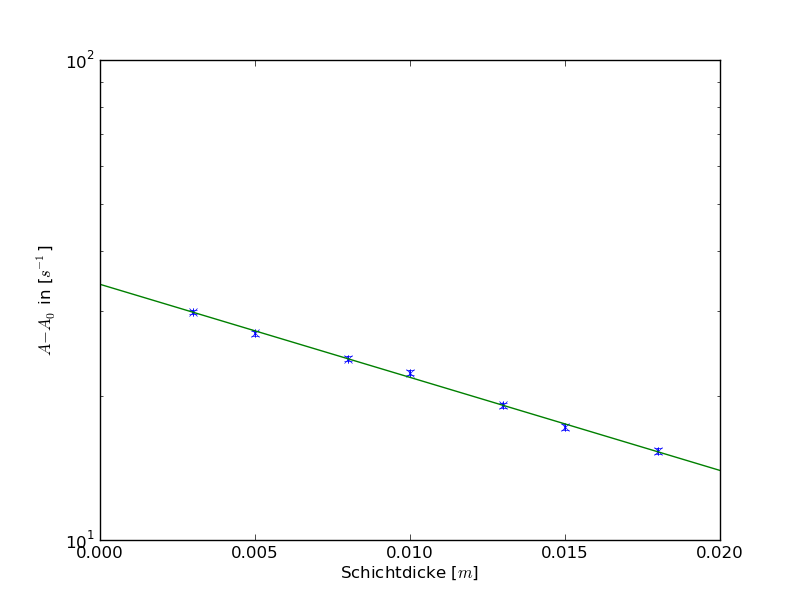
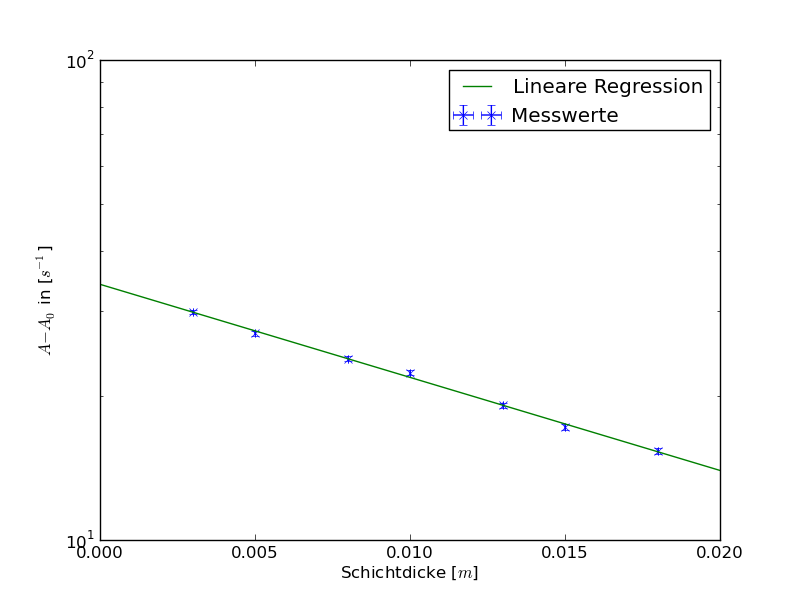
fertig

Changed region(s): [[0.5625, 0.09, 0.9062, 0.24]]

diff --git a/protokoll704.tex b/protokoll704.tex
@@ -8,10 +8,11 @@
 \usepackage{amssymb}
 \usepackage{inputenc}
 \usepackage{rotating} 
+\usepackage{here}
 \usepackage{graphicx}
 \usepackage{paralist}
 \usepackage{selinput}
-\usepackage{siunitx}
+\usepackage[separate-uncertainty=true]{siunitx}
 \usepackage{booktabs}
 \sisetup{}
 \SelectInputMappings{%
@@ -39,7 +40,7 @@ germandbls={ß},
 \section{Einleitung}
 In diesem Versuch wird die Wechselwirkung energiereicher Strahlung mit Materie untersucht. Es wird $\gamma$-Strahlung als Beispiel für Photonenstrahlung und $\beta$-Strahlung als Beispiel für Teilchenstrahlung betrachtet.
 \section{Theorie}
-Während es bei der $\gamma$-Strahlung gelingt, ein allgemeingültiges exponentielles Absorptionsgesetz aufzustellen, ist die Wechselwirkung von $\beta$-Strahlung mit Materie zu vielfältig für eine einfache Gesetzmäßigkeit. Im Gegensatz zur $\gamma$-Strahlung treten bei den schnellen Elektronen meisst eine Vielzahl von Wechselwirkungen auf, bis die gesamte kinetische Energie der Teilchen umgewandelt wurde. Ein allgemeingültiges Absorptionsgesetz für die $\gamma$-Strahlung zu formulieren ist für den Umfang dieses Versuches zu kompliziert. Stattdessen soll hier die sogenannte Reichweite mit einem einfachen Messverfahren untersucht werden.
+Während es bei der $\gamma$-Strahlung gelingt, ein allgemeingültiges exponentielles Absorptionsgesetz aufzustellen, ist die Wechselwirkung von $\beta$-Strahlung mit Materie zu vielfältig für eine einfache Gesetzmäßigkeit. Im Gegensatz zur $\gamma$-Strahlung treten bei den schnellen Elektronen meist eine Vielzahl von Wechselwirkungen auf, bis die gesamte kinetische Energie der Teilchen umgewandelt wurde. Ein allgemeingültiges Absorptionsgesetz für die $\gamma$-Strahlung zu formulieren ist für den Umfang dieses Versuches zu kompliziert. Stattdessen soll hier die sogenannte Reichweite mit einem einfachen Messverfahren untersucht werden.
 \subsection{$\gamma$-Strahlung}
 \subsubsection{Wirkungsquerschnitt und Absorptionsgesetz}
 Für die Betrachtung der $\gamma$-Strahlung muss zunächst der sogenannte Wirkungsquerschnitt definiert werden. \newline
@@ -77,7 +78,7 @@ Bei der Wechselwirkung eines $\gamma$-Quants mit Materie können viele Wechselwi
 \paragraph{Der Photoeffekt}
 Wenn ein $\gamma$-Quant in Wechselwirkung mit einem Elektron eines Atoms tritt, wird der $\gamma$-Quant vernichtet und das Elektron aus seiner Bindung an den Kern entfernt. Dabei hat das Elektron die kinetische Energie $E_B$. $E_B$ ist die Teilenergie des $\gamma$-Quants, die nicht für das Lösen des Elektrons umgewandelt wurde. Daher tritt der Photoeffekt nicht bei $\gamma$-Quanten mit einer Energie, die kleiner als die Auslöseenergie ist, auf. Bei Anwendung des Impuls-Satzes stellt man fest, dass das Atom einen Teil des Quantenimpulses aufnehmen muss. Daraus folgt, dass die Absorption des Quanten in der innersten Schale und bei schweren Atomen am häufigsten sind. Die durch den Photoeffekt entstehenden Lücken in den Schalen werden durch den Übergang von Elektronen höherer Schalen aufgefüllt, dabei wird ein Röntgenquant oder ein Auger-Elektron emittiert.
 \paragraph{Der Compton-Effekt}
-Beim Compton-Effekt wird der $\gamma$-Quant an einem freien Elektron gestreut. Dieser Effekt verursacht eine Energie- und Richtungsänderung des gestreuten $\gamma$-Quantens. Aus dem Energie- und dem Impulssatz folgt zwar, dass der Quant nie seine ganze Energie abgeben kann, trotzdem nimmt die Intensität des $\gamma$-Strahls ab, da der Quant gestreut wird.
+Beim Compton-Effekt wird der $\gamma$-Quant an einem freien Elektron gestreut. Dieser Effekt verursacht eine Energie- und Richtungsänderung des gestreuten $\gamma$-Quants. Aus dem Energie- und dem Impulssatz folgt zwar, dass der Quant nie seine ganze Energie abgeben kann, trotzdem nimmt die Intensität des $\gamma$-Strahls ab, da der Quant gestreut wird.
 \begin{equation}
 \sigma_{com} = 2\pi r_e^2\left(\frac{1+\epsilon}{\epsilon^2} \left( \frac{2(1+\epsilon)}{1+2\epsilon}-\frac{1}{\epsilon}ln(1+2\epsilon) \right) + \frac{1}{2\epsilon}ln(1+2\epsilon) - \frac{1+3\epsilon}{(1+2\epsilon)^2} \right)
 \label{6}
@@ -91,16 +92,30 @@ Formel (\ref{6}) zeigt den Wirkungsquerschnitt $\sigma_{com}$ für die Comptonst
 Die sogenannte Paarbildung kann auftreten, wenn die $\gamma$-Energie größer ist als die doppelte Ruhemasse des Elektrons ist.
 Der Impulssatz zeigt, dass zusätzlich ein Teil des Quantenimpulses von einem weiteren Stoßpartner übernommen werden muss. Meistens übernehmen die Atomkerne des Absorbermaterials diesen Restimpuls. $\sigma_p \sim z^2$ lässt sich mit Hilfe der Quantenmechanik zeigen.
 \newline\newline
-Die Gewichtung der drei hauptsächlich aufgetretenen Effekte ist abhängig von der Quantenenergie. Abbildung \ref{a1} zeigt die Extinktionskoeffizienten am Beispiel des Absorbers Germanium. So ist bei den niedrigen Energien der Fotoeffekt dominierend, schon bei mittleren Energien kann er hingegen vernachlässigt werden. Der Compton-Effekt ist bei geringen Energien zwar vorhanden, spielt aber erst bei mittleren Energien eine Rolle. Die Paarbildung setzt erst bei 1 MeV ein, ist aber zunächst vernachlässigbar. Bei 100 MeV findet fast nur noch die Paarbildung statt.
+Die Gewichtung der drei hauptsächlich aufgetretenen Effekte ist abhängig von der Quantenenergie. Abbildung \ref{a1} zeigt die Extinktionskoeffizienten am Beispiel des Absorbers Germanium. 
+\begin{figure}[h!]
+\centering
+\includegraphics[scale=0.7]{/home/martin/Dokumente/SS14/Praktikum/V704/theorie.png}
+\caption{Energieabhängigkeit des Absorptionskoeffizienten $\mu$ für Germanium getrennt nach den verschiedenen Wechselwirkungsmechanismen sowie Totaleffekt [1]}
+\label{a1}
+\end{figure}
+So ist bei den niedrigen Energien der Fotoeffekt dominierend, schon bei mittleren Energien kann er hingegen vernachlässigt werden. Der Compton-Effekt ist bei geringen Energien zwar vorhanden, spielt aber erst bei mittleren Energien eine Rolle. Die Paarbildung setzt erst bei \SI{1}{MeV} ein, ist aber zunächst vernachlässigbar. Bei \SI{100}{MeV}findet fast nur noch die Paarbildung statt.
 \subsection{$\beta$-Strahlung}
 \subsubsection{Entstehung und Eigenschaften der $\beta$-Strahlung}
 $\beta$-Strahlung besteht aus positiven oder negativen Elektronen mit hoher kinetischer Energie. Diese Elektronen werden von Atomkernen mit einer instabilen Anzahl von Protonen oder Neutronen emittiert. Zusätzlich zu dem Elektron wird ein Antineutrino $\overline{\nu}_e$ bzw. das Neutrino $\nu_e$ emittiert. Da die Energie, die bei der Kernumwandlung frei wird, statistisch auf das Elektron, das Neutrino und auf den Rückstoßkern verteilt wird, ist das Spektrum eines $\beta$-Strahlers kontinuierlich. Die bei der Kernwandlung freigewordene Energie entspricht dabei der Maximalenergie $E_{max}$ des Elektrons. Durch das emittierte (Anti-)Neutrino wird die Einhaltung aller Erhaltungssätze gewährleistet.
 \subsubsection{Wechselwirkung von $\beta$-Strahlung mit Materie}
 Aufgrund ihrer Ladung und ihrer im Vergleich zu anderen Teilchen geringen Masse ist ein $\beta$-Teilchen für sehr viele Wechselwirkungen verantwortlich. Es treten vor allem drei Prozesse auf, die im Folgenden näher erläutert werden.
 \paragraph{Elastische Streuung am Atomkern}
-Bei dieser sogenannten Rutherford-Streuung werden die $\beta$-Teilchen im Coulombfeld der Atomkerne zum Teil mit großem Winkel abgelenkt. Durch diese Auffächerung der Teilchen wird die Intensität verringert. Darüber werden die Bahnlängen durch die Absorberschicht erheblich größer als die Reichweite der Elektronen. Dieser Effekt ist in Abbildung \ref{a2} dargestellt. Da die elastische Streuung unter relativistischen Geschwindigkeiten stattfindet, müssen die Rutherfordschen Streuformeln mehrfach korrigiert werden. Darauf soll hier aber nicht weiter eingegangen werden.
+Bei dieser sogenannten Rutherford-Streuung werden die $\beta$-Teilchen im Coulombfeld der Atomkerne zum Teil mit großem Winkel abgelenkt. Durch diese Auffächerung der Teilchen wird die Intensität verringert. Darüber werden die Bahnlängen durch die Absorberschicht erheblich größer als die Reichweite der Elektronen. Dieser Effekt ist in Abbildung \ref{a2} dargestellt. 
+\begin{figure}[h]
+\centering
+\includegraphics[scale=0.6]{abb2.png}
+\caption{Veranschaulichung des Unterschiedes zwischen Bahnlänge und Reichweite individueller $\beta$-Teilchen in einer Materieschicht[1]}
+\label{a2}
+\end{figure}
+Da die elastische Streuung unter relativistischen Geschwindigkeiten stattfindet, müssen die Rutherfordschen Streuformeln mehrfach korrigiert werden. Darauf soll hier aber nicht weiter eingegangen werden.
 \paragraph{Inelastische Streuung am Atomkern}
-Bei der Inelastischen Streuung wird Energie in Form von Bremsstrahlung abgegeben, da die Elektronen im Coulombfeld eines Kernes beschleunigt werden. Die Wahrscheinlichkeit dieses Prozesses wird bestimmt durch den Wirkungsquerschnitt $\sigma{Br}$. Bezogen auf den Atomkern ergibt sich
+Bei der inelastischen Streuung wird Energie in Form von Bremsstrahlung abgegeben, da die Elektronen im Coulombfeld eines Kerns beschleunigt werden. Die Wahrscheinlichkeit dieses Prozesses wird bestimmt durch den Wirkungsquerschnitt $\sigma{Br}$. Bezogen auf den Atomkern ergibt sich
 \begin{equation}
 \sigma_{Br} = \alpha r_e^2 z^2.
 \label{8}
@@ -114,21 +129,45 @@ Allerdings ist diese Formel nur für Energien bis ca. 2500 keV gültig. Insgesam
 \paragraph{Inelastische Streuung an Elektronen des Absorbermaterials}
 Bei der Absorption von $\beta$-Strahlung müssen Energieverluste bis zur Energie Null erklärt werden. Die daher notwendige dritte Art der Wechselwirkung ist die Inelastische Streuung an Elektronen. Durch diese Streuung werden die Kerne ionisiert und angeregt. Durch die nur geringe Umwandlung von Energie kann ein Elektron viele dieser Wechselwirkungen durchlaufen. Die Wahrscheinlichkeit dieser inelastischen Streuung ist proportional zur Anzahl der Elektronen pro Volumeneinheit. Bei Aluminium und einer Elektronenenergie von 100 keV werden $\beta$-Teilchen schon bei einer Schichtdicke des Aluminiums von ca. 0.15 mm vollständig abgebremst.
 \subsubsection{Die Absorptionskurve von $\beta$-Strahlung}
-Aufgrund der Komplexität der Absorptionsvorgänge bei $\beta$-Strahlung ist die Aufstellung des Zusammenhangs zwischen der Intensität der Strahlung und der Dicke des Absorbers ein hier nicht lösbares Problem. Allerdings zeigt sich, dass für kleine Schichtdicken und natürliche Strahler mit guter Näherung das Apsorptionsgesetz in Formel (\ref{3}) gilt. Ist die Schichtdicke allerdings zu nahe an der maximalen Reichweiter der Elektronen, kann dieses Gesetz nicht angewendet werden. Abbildung \ref{a3} zeigt eine typische Absorptionskurve. Die mit "Untergrund" bezeichnete Strahlenintensität setzt sich aus der Hintergrundstrahlung und der emitierten Bremsstrahlung der Elektronen zusammen. Um an der Absorptionskurve die maximale Reichweite der Elektronen zu bestimmen, verlängert man die beiden geraden Stücke des Graphen und liest die Reichweite im Schnittpunkt ab. Aus dieser Reichweite $R_{max}$ kann man die kernphysikalisch interessante Größe $E_{max}$ ermitteln. Aufgrund der so komplizierten Wechselwirkung ist der Zusammenhang aber nur empirisch. In unserem Experiment gilt
+Aufgrund der Komplexität der Absorptionsvorgänge bei $\beta$-Strahlung ist die Aufstellung des Zusammenhangs zwischen der Intensität der Strahlung und der Dicke des Absorbers ein hier nicht lösbares Problem. Allerdings zeigt sich, dass für kleine Schichtdicken und natürliche Strahler mit guter Näherung das Apsorptionsgesetz in Formel (\ref{3}) gilt. Ist die Schichtdicke allerdings zu nahe an der maximalen Reichweiter der Elektronen, kann dieses Gesetz nicht angewendet werden. Abbildung \ref{a3} zeigt eine typische Absorptionskurve.
+\begin{figure}[h]
+\centering
+\includegraphics[scale=0.9]{abb3.png}
+\caption{Absorptionskurve für einen natürlichen $\beta$-Strahler}
+\label{a3}
+\end{figure}
+ Die mit "Untergrund" bezeichnete Strahlenintensität setzt sich aus der Hintergrundstrahlung und der emittierten Bremsstrahlung der Elektronen zusammen. Um an der Absorptionskurve die maximale Reichweite der Elektronen zu bestimmen, verlängert man die beiden geraden Stücke des Graphen und liest die Reichweite im Schnittpunkt ab. Aus dieser Reichweite $R_{max}$ kann man die kernphysikalisch interessante Größe $E_{max}$ ermitteln. Aufgrund der so komplizierten Wechselwirkung ist der Zusammenhang aber nur empirisch. In unserem Experiment gilt
 \begin{equation}
 E_{max} = 1.92\sqrt{R_{max}^2 + 0.22 R_{max}}\, [MeV].
 \label{10}
 \end{equation}
 \section{Vorbereitung und Durchführung}
 \subsection{Aufbau}
-Der grundlegende Versuchsaufbau ist der Abbildung \ref{a4} zu entnehmen. Ein Geiger-Müller-Zählrohr ist verstärkt an einem Zählwerk angeschlossen, die Messzeit ist einstellbar. Zwischen der strahlenden Probe und dem Zählrohr können Absorptionskörper in verschiedenen Stärken befestigt werden. Die Versuchsumgebung ist mit einer Bleiwand abgeschirmt.
+Der grundlegende Versuchsaufbau ist der Abbildung \ref{a4} zu entnehmen. 
+\begin{figure}[htp]
+\centering
+\includegraphics[scale=0.7]{abb4.png}
+\caption{Schematische Darstellung der Messapparatur für die $\gamma$-Absorption[1]}
+\label{a4}
+\end{figure}
+Ein Geiger-Müller-Zählrohr ist verstärkt an einem Zählwerk angeschlossen, die Messzeit ist einstellbar. Zwischen der strahlenden Probe und dem Zählrohr können Absorptionskörper in verschiedenen Stärken befestigt werden. Die Versuchsumgebung ist mit einer Bleiwand abgeschirmt.
 \subsection{Durchführung}
 Bevor die Probe eingesetzt wird, wird zunächst die Hintergrundstrahlung gemessen. Um eine hohe Genauigkeit zu erreichen, wird der Nulleffekt 900 Sekunden lang gemessen. In der folgenden Messung mit der Probe wird die Schichtdicke des Absorbers Schritt für Schritt erhöht, bei der Messung der $\beta$-Strahlung so lange, bis die Zählrate in der statistischen Schwankung konstant bleibt.\newline
 Um eine geringere Strahlenbelastung zu erreichen, misst jede Praktikumsgruppe nur eine Strahlenart. Hier wird die $\beta$-Strahlung gemessen. Die Messwerte zur $\gamma$-Strahlung werden von unserer Partnergruppe bereitgestellt.
 \section{Auswertung}
 \subsection{Bestimmung der Messungenauigkeiten der Zählraten}
+Da es sich beim radioaktiven Zerfall um einen statistischen Prozess handelt, soll hier die Berechnung der Messunsicherheiten noch einmal behandelt. Der Zerfall der Kerne lässt sich durch eine Poisson-Verteilung beschreiben. Daher beträgt der statistische Fehler der gemessenen Werte
+\begin{equation}
+\Delta N = \sqrt{N}.
+\end{equation} 
+Weil sich die Messapparatur nicht komplett abschirmen lässt, ist der sogenannte Nulleffekt zu berücksichtigen. Das ist die Anzahl der durch Hintergrundstrahlung ausgelösten Zählungen im Geiger-Müller-Zählrohr. Damit ergibt sich für den Fehler der Nettoaktivität $A-A_0$:
+\begin{equation}
+\Delta A = \sqrt{\left(\frac1{\Delta t}\right)^2 \cdot |N| +\left(\frac1{\Delta t_0}\right)^2 \cdot |N_0| }
+\end{equation} 
+Diese Größe wird im Folgenden in den Tabellen und in den Diagrammen (mittels Fehlerbalken) als Messunsicherheit der angegeben Aktivitäten angegeben. 
+\paragraph{Anmerkung} Die Berechnung dieser Fehler, sowie die Erstellung der Diagramme und die lineare Ausgleichsrechnung wurden mit \textsc{Python} durcheführt.  
 \subsection{Bestimmung des Absorptionskoeffizienten $\mu$ von $\gamma$-Strahlung}
-Die Absorptionkurven wurden jeweils für eine Schicht aus Kupfer und einer Schicht aus Blei aufgenommen. Die Tabellen \ref{tab_gamma1}  und \ref{tabn_gamma_2} enthalten die über einen Zeitraum von 
+Die Absorptionskurven wurden jeweils für eine Schicht aus Kupfer und einer Schicht aus Blei aufgenommen. Die Tabellen \ref{tab_gamma1}  und \ref{tabn_gamma_2} enthalten die über einen Zeitraum von 
 \[
 \Delta t_{Cu} = \SI{300}{\second}
 \]
@@ -140,20 +179,48 @@ für das Blei-Target gemessenen Werte und die entsprechenden Zählraten
 \[
 A = \frac{N}{\Delta t} - A_0.
 \]
-In den Abbildungen \ref{abb_gamma1_lin} und \ref{abb_gamma2_lin} sind die Absorptionskurven für die jeweiligen Metalle linear aufgetragen. Zur Berechnung der Absoprtionskoeffizienten wurden diese Werte auch halblogarithmisch aufgetragen (Abbildungen \ref{abb_gamma1_log} und \ref{abb_gamma2_log}) und eine lineare Ausgleichsrechung 
+In den Abbildungen \ref{abb_gamma1_lin} und \ref{abb_gamma2_lin} sind die Absorptionskurven für die jeweiligen Metalle linear aufgetragen. 
+\begin{figure}[H]
+\centering
+\includegraphics[scale=0.6]{/home/martin/Dokumente/SS14/Praktikum/V704/gamma1_lin.png}
+\caption{Linearer Plot der gemessenen Aktivität in Abhängigkeit von der Schichtdicke $d$ für das Cu-Target}
+\label{abb_gamma1_lin}
+\end{figure}
+\begin{figure}[H]
+\centering
+\includegraphics[scale=0.6]{/home/martin/Dokumente/SS14/Praktikum/V704/gamma2_lin.png}
+\caption{Linearer Plot der gemessenen Aktivität in Abhängigkeit von der Schichtdicke $d$ für das Pb-Target}
+\label{abb_gamma2_lin}
+\end{figure}
+
+\begin{figure}[H]
+\centering
+\includegraphics[scale=0.6]{/home/martin/Dokumente/SS14/Praktikum/V704/gamma1_log.png}
+\caption{Halblogarithmischer Plot der gemessenen Aktivität in Abhängigkeit von der Schichtdicke $d$ für das Cu-Target}
+\label{abb_gamma1_log}
+\end{figure}
+\begin{figure}[H]
+\centering
+\includegraphics[scale=0.6]{/home/martin/Dokumente/SS14/Praktikum/V704/gamma2_log.png}
+\caption{Halb-logarithmischer Plot der gemessenen Aktivität in Abhängigkeit von der Schichtdicke $d$ für das Pb-Target}
+\label{abb_gamma2_log}
+\end{figure}
+\noindent
+Zur Berechnung der Absorptionskoeffizienten wurden diese Werte auch halb-logarithmisch aufgetragen (Abbildungen \ref{abb_gamma1_log}  und \ref{abb_gamma2_log}) und eine lineare Ausgleichsrechnung 
 \[
 \ln{A} = \mu \cdot d + \ln{A(0)}
 \]
 durchgeführt. Die folgenden Werte wurden bestimmt:
 \begin{table}[h]
 \centering
-\begin{tabular}{rcc}
+\begin{tabular}{lll}
 
 \toprule
-	Material & $\frac{\mu}{\si{\meter^{-1}}}$ & $\ln{A(0)}$\\
- \midrule
-	Cu & 22 & 23\\
-	Pb & 32 & 33\\
+	Material & $\frac{\mu}{\si{\meter^{-1}}} $& $\ln{A(0)}$ \\
+ \midrule 
+ 	Cu & \num{44.6+-0.9} & \num{3.529+-0.011}\\
+	Pb & \num{-05.3+-1.3}  & \num{2.430+-0.027}\\
+
 \bottomrule
 \end{tabular}
 \end{table}
@@ -161,20 +228,20 @@ durchgeführt. Die folgenden Werte wurden bestimmt:
 \noindent
 Hieraus lässt sich durch Anwendung der Exponentialfunktion die Zählrate des Strahlers ohne Abschirmung $A(0)$ berechnen:
 \begin{itemize}
-\item $A_{Cu}(0)$ = \SI{}{\becquerel}
-\item $A_{Pb}(0)$ = \SI{}{\becquerel}.
+\item $A_{Cu}(0)$ = \SI{34.1+-0.4}{\becquerel}
+\item $A_{Pb}(0)$ = \SI{11.4+-0.3 }{\becquerel}.
 
 \end{itemize}
 \paragraph{Theoretische Berechnung von $\mu$}
-Zur Berechnung des Wirkungsqueschnitts $\sigma_{com}$ muss zunächst das Verhältnis von Quantenenergie zur Ruheenergie des Elektrons berechnet werden. Der Vewendete Strahler hat eine Quatenenergie von $E_\gamma = \SI{633}{\kilo\eV}$[Quelle]. Somit ergibt sich für 
+Zur Berechnung des Wirkungsquerschnitts $\sigma_{com}$ muss zunächst das Verhältnis von Quantenenergie zur Ruheenergie des Elektrons berechnet werden. Der Verwendete Strahler ${}^{137}$Cs  hat eine Quantenenergie von $E_\gamma = \SI{0.662}{\kilo\eV}$[2]. Somit ergibt sich für 
 \[
-\epsilon =  \frac{E_\gamma}{m_ec^2} = \num{1.305}.
+\epsilon =  \frac{E_\gamma}{m_ec^2} = \num{1.3}.
 \]
 Aus Formel \ref{6} berechnet $\sigma_{com}$ zu
 \[
 \sigma_{com} = \SI{2.76e-29}{\meter\squared}
 \]
-Aus diesem Wert kann aus Formel (\ref{7}). Dazu werden noch die Molare Masse $M$ sowie die Dichte $\rho$ des verwendeten Targets. Die folgende Tabelle zeigt die errechneten Werte:
+Aus diesem Wert kann aus Formel (\ref{7}). Dazu werden noch die Molare Masse $M$ sowie die Dichte $\rho$ des verwendeten Targets. Die folgende Tabelle zeigt die berechneten Werte:
 \begin{table}[h]
 \centering
 \begin{tabular}{lllll}
@@ -182,7 +249,7 @@ Aus diesem Wert kann aus Formel (\ref{7}). Dazu werden noch die Molare Masse $M$
 	Material & $Z$ & $\frac{M}{\si{\gram\per\mole}}$ &$\frac{\rho}{\si{\kilo\gram\per\meter\squared}}$ &$\frac{\mu}{\si{\meter^{-1}}}$ \\
 \midrule
 	Cu & 29 &63.546  &8.83 & 0.068\\
-	Pb &82 & 207.2& 11.342 &     \\
+	Pb &82 & 207.2& 11.342 & 0.075    \\
 \bottomrule
 \end{tabular}
 
@@ -192,11 +259,11 @@ Zur Bestimmung der Absorptionskurve von $\beta$-Strahlung wurde über einen Zeit
 \[
 \Delta t = \SI{60}{\second}
 \]
-gemessen. Die Ergebnisse, sowie die dauraus berechnete Zählrate
+gemessen. Die Ergebnisse, sowie die daraus berechnete Zählrate
 \[
 A = \frac{N}{\Delta t}
 \]
-befinden sich in Tabelle \ref{tab_beta}. In Abbildung \ref{abb_beta} werden diese Daten halblograrithmisch aufgetragen. Es zeigt sich der zu erwartende Kurvenverlauf. 
+befinden sich in Tabelle \ref{tab_beta}. In Abbildung \ref{abb_beta} werden diese Daten halb-logarithmisch aufgetragen. Es zeigt sich der zu erwartende Kurvenverlauf. 
 \begin{figure}[htp]
 \centering
 \includegraphics[scale=0.85]{/home/martin/Dokumente/SS14/Praktikum/V704/beta_log.png}
@@ -204,11 +271,11 @@ befinden sich in Tabelle \ref{tab_beta}. In Abbildung \ref{abb_beta} werden dies
 \label{abb_beta}
 \end{figure}
 \newpage
-Eine lineare Augleichsrechnung
+Eine lineare Ausgleichsrechnung
 \[
-y=m x +b
+\ln{A} = m\cdot d + b
 \]
-wird jeweils für die ersten X Messpunkte sowie für die restlichen Daten ausgeführt. Daraus ergeben sich folgende Werte:
+wird jeweils für die ersten 13 Messpunkte sowie für die restlichen Daten ausgeführt. Daraus ergeben sich folgende Werte:
 \begin{table}[h]
 \centering
 \begin{tabular}{cSS}
@@ -221,22 +288,39 @@ wird jeweils für die ersten X Messpunkte sowie für die restlichen Daten ausgef
 \end{tabular}
 
 \end{table}
-Die X-Koordinate des Schnittpuntes der beiden Ausgleichsgeraden entspricht der maximalen Eindringtiefe $R_{Max}$. Hiermit ergibt sich:
+Die X-Koordinate des Schnittpunktes der beiden Ausgleichsgeraden entspricht der maximalen Einringtiefe $R_{Max}$. Hiermit ergibt sich:
 \begin{equation}
 R_{Max} = \frac{b_2-b_1}{m_1-m_2} = \SI{0.87+-0.08}{\milli\meter}.
 \end{equation}
 
-Aus diesem Wert kann mit Hilfe der empirschen Formel (\ref{10}) bestimmt werden.
+Aus diesem Wert kann mit Hilfe der empirischen Formel (\ref{10}) bestimmt werden.
 \[
 E_{Max} = 1.92\sqrt{R_{Max}^2+0.22R_{Max}}[\si{\mega\eV}] = \SI{0.0266+-0.0012}{\mega\eV}
 \]
-
+Der Theoriewert[3] für die Maximalenergie des hier verwendeten Strahlers ${}^{99}$Tc beträgt
+\[
+E_{Max} = \SI{0.314+-0.018}{\mega\eV}.
+\]
+Damit beträgt die relative Abweichung des experimentell ermittelten Werts:
+\[
+\Delta E_{max} = \SI{-6.8}{\percent}
+\]
 \section{Diskussion}
 
-\section{Abbildungsverzeichnis}
+Die im ersten Versuchsteil aufgenommen Daten bestätigen die theoretischen Überlegungen zur $\gamma$-Absorption. Die erwartete exponentielle Abhängigkeit von der Schichtdicke $d$ konnte sowohl für Kupfer, als auch für Blei nachgewiesen werden. Dennoch stimmen ermittelten Werte für $\mu$ nicht mit den berechneten Zahlen für den Compton-Absorptionskoeffizienten $\mu_{com}$ überein. Hieraus kann geschlossen werden, dass der Compton-Effekt bei der Absorption von $\gamma$-Strahlung in dem hier Untersuchten Energiebereich eine untergeordnete Rolle spielt. Problematisch sind auch die unterschiedlichen Werte für die Aktivität ohne Target $A(0)$. Diese sollten theoretisch gleich sein, da es bei einer Schichtdicke von $d = \SI{0}{\milli\meter}$ keine Materialabhängigkeit der Aktivität geben dürfte.
+
+\noindent
+Die Ergebnis der Untersuchung mit $\beta$-Strahlung an Aluminium ist mit einer relativen Abweichung von \SI{-6.8}{\percent} mit dem Theoriewert verträglich.
+
+\noindent
+\newpage
+\section{Quellen}
 \begin{enumerate}[{[}1{]}]
-\item Entnommen der Praktikumsanleitung "Fourier-Analyse und Synthese" der TU Dortmund. Download am 18.01.14 unter:\\
+\item Entnommen der Praktikumsanleitung \textit{Absorption von $\gamma$- und $\beta$-Strahlung} der TU Dortmund. Download am 21.04.14 unter:\\
  \url{http://129.217.224.2/HOMEPAGE/PHYSIKER/BACHELOR/AP/SKRIPT/V351.pdf}
+ \item Entommen aus: \textit{RADIONUCLIDE SAFETY DATA SHEET}, Stanford University.\\ Download am 21.04.14 unter:\\
+\url{http://www.stanford.edu/dept/EHS/prod/researchlab/radlaser/RSDS_sheets/Cs-137.pdf}
+ \item Kaplan, Irving, \textit{Nuclear Physics}, New York: Addison-Wesley, 1964.
 \end{enumerate}
 \section{Anhang}
 \begin{itemize}
@@ -281,8 +365,8 @@ E_{Max} = 1.92\sqrt{R_{Max}^2+0.22R_{Max}}[\si{\mega\eV}] = \SI{0.0266+-0.0012}{
 31 & 188 & 0.44+-0.23\\
 \bottomrule
 \end{tabular}
-\label{Ergebnisse der Messung des $\gamma$-Strahlers an einem Pb-Target.}
-\caption{}
+\label{tab_gamma2}
+\caption{Ergebnisse der Messung des $\gamma$-Strahlers an einem Pb-Target.}
 \end{table}
 
 

diff --git a/gamma.py b/gamma.py
@@ -1,5 +1,6 @@
-from numpy import genfromtxt, sqrt, array, log, linspace, exp, pi
+from numpy import genfromtxt, sqrt, array, log, linspace, pi, exp
 from uncertainties import ufloat
+import uncertainties.umath as umath
 from scipy.constants import *
 from matplotlib.pyplot import *
 data = genfromtxt("gamma_data1.csv", delimiter=',', unpack="true")
@@ -17,7 +18,7 @@ def fehler(N,N_0,t,t_0):
 
 def mu_theo(Z, M, rho):
     r_e = 2.82e-15
-    E_gamma = 667e3 * electron_volt
+    E_gamma = 0.662e6 * electron_volt
     N_L = N_A
     eps = E_gamma/(c**2*m_e)
     print eps
@@ -41,7 +42,8 @@ xlabel("Schichtdicke [$m$]")
 ylabel("$A-A_0$ in [$s^{-1}$]")
 xlim(0,0.02)
 ylim(10,32)
-errorbar(d_1,A_1-A_0,A_1_err,0, "x")
+errorbar(d_1,A_1-A_0,A_1_err,0, "x", label="Messwerte")
+legend()
 savefig("gamma1_lin.png")
 
 
@@ -52,14 +54,16 @@ from Tools import lin_reg, make_LaTeX_table
 m_1, b_1 = lin_reg(d_1,log(A_1-A_0))
 
 
-print "mu %s und A(0) = %s" % (m_1,exp(0)**b_1)
+print "mu %s und A(0) = %s" % (m_1,b_1)
+print "A_0:%s " % umath.exp(b_1)
 
 #Plot LinFit
 
 yscale("log")
 ylim(10,100)
 d = linspace(0,0.02)
-plot(d,exp(m_1.n * d+b_1.n))
+plot(d,exp(m_1.n * d+b_1.n), label = "Lineare Regression")
+legend()
 savefig("gamma1_log.png")
 
 #Latex Tabelle erzeugen
@@ -92,7 +96,8 @@ yscale("linear")
 xlabel("Schichtdicke [$m$]")
 ylabel("$A-A_0$ in [$s^{-1}$]")
 
-errorbar(d_2,A_2-A_0,A_2_err,0, "x")
+errorbar(d_2,A_2-A_0,A_2_err,0, "x", label ="Messwerte")
+legend()
 savefig("gamma2_lin.png")
 
 
@@ -102,15 +107,17 @@ savefig("gamma2_lin.png")
 m_1, b_1 = lin_reg(d_2,log(A_2-A_0))
 
 
-print "mu_2 %s und A_2(0) = %s" % (m_1,exp(0)**b_1)
+print "mu_2 %s und lnA_2(0) = %s" % (m_1,b_1)
+print "A_0:%s " % umath.exp(b_1)
 
 #Plot LinFit
 
-yscale("log")
+yscale("log" )
 
 d = linspace(0, 0.035)
-plot(d,exp(m_1.n * d+b_1.n))
+plot(d,exp(m_1.n * d+b_1.n),label = "Lineare Regression")
 xlim(0,0.035)
+legend()
 savefig("gamma2_log.png")
 
 #Latex Tabelle erzeugen

diff --git a/beta.py b/beta.py
@@ -35,9 +35,9 @@ x_2 = linspace(0,2500e-6)
 R_max = (b_2-b_1)/(m_1-m_2)
 
 print "R_Max: %s mm " % (R_max*1e3)
-
+R_max *= 1e2
 E_Max = 1.92*(R_max**2+0.22*R_max)**0.5 
-
+R_max *= 1e-2
 print "E_max : %s MeV" % E_Max
 xlabel("Schichtdicke [$\mu m$]")
 ylabel("$A$ in [$s^{-1}$]")
